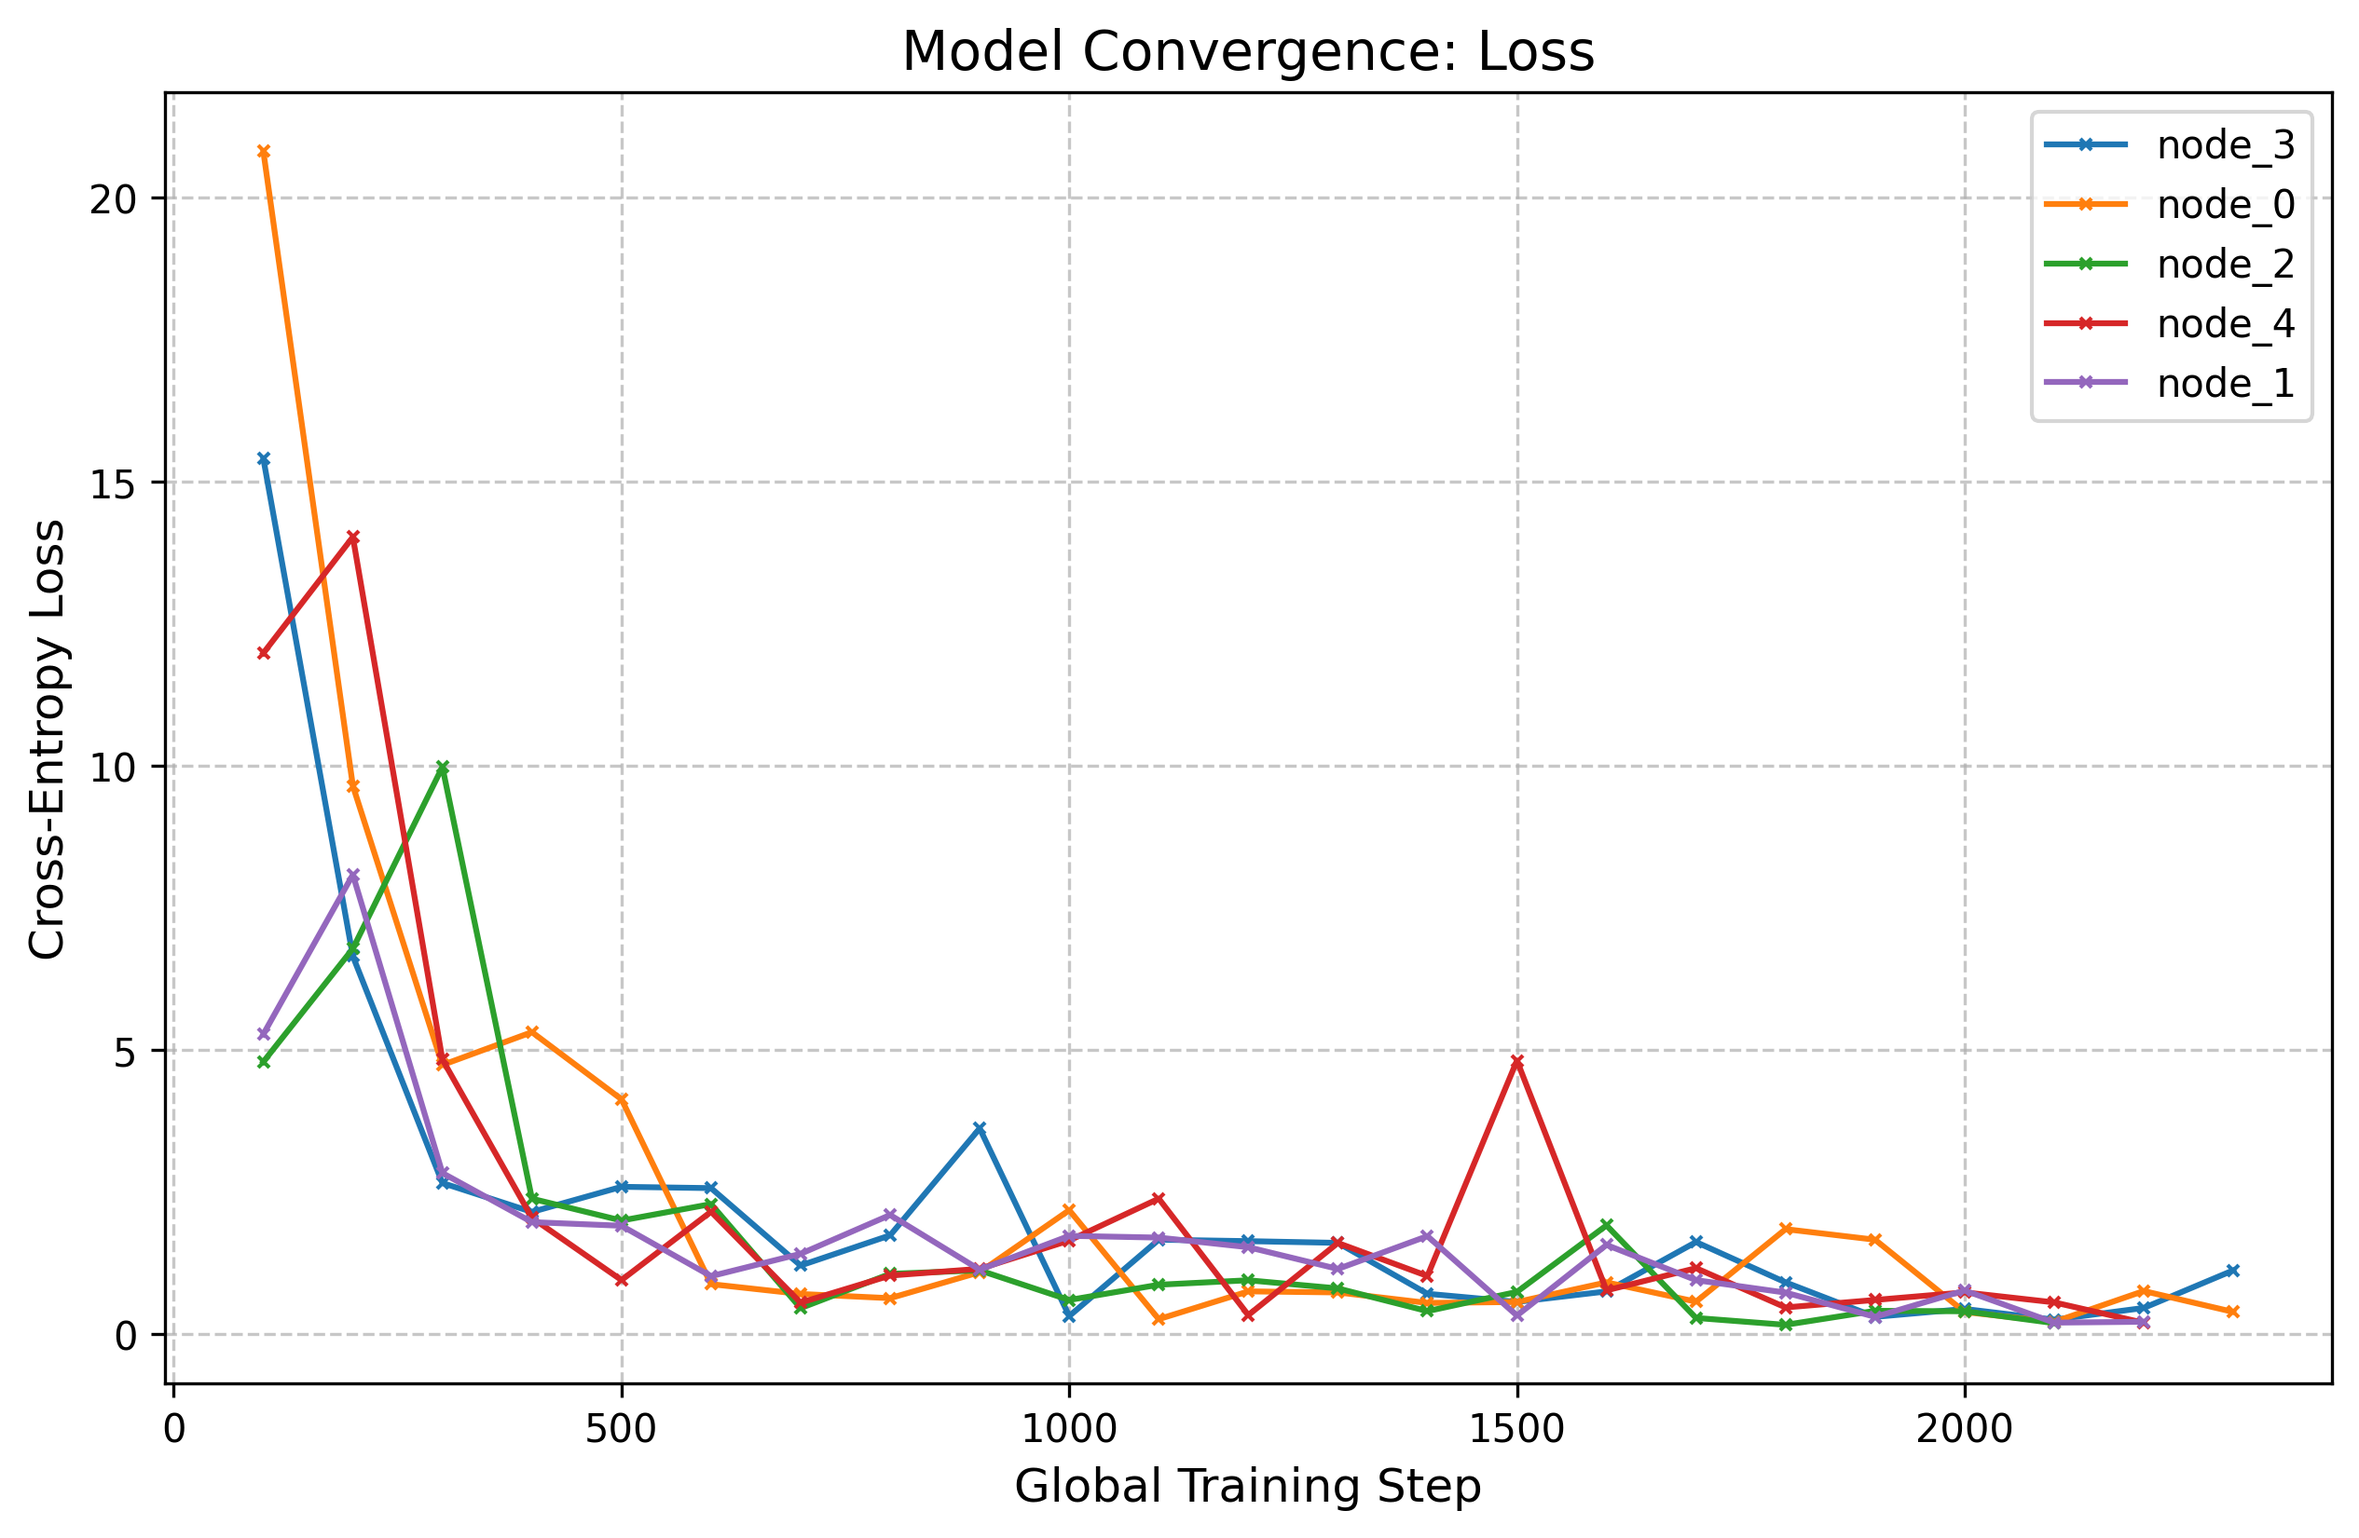
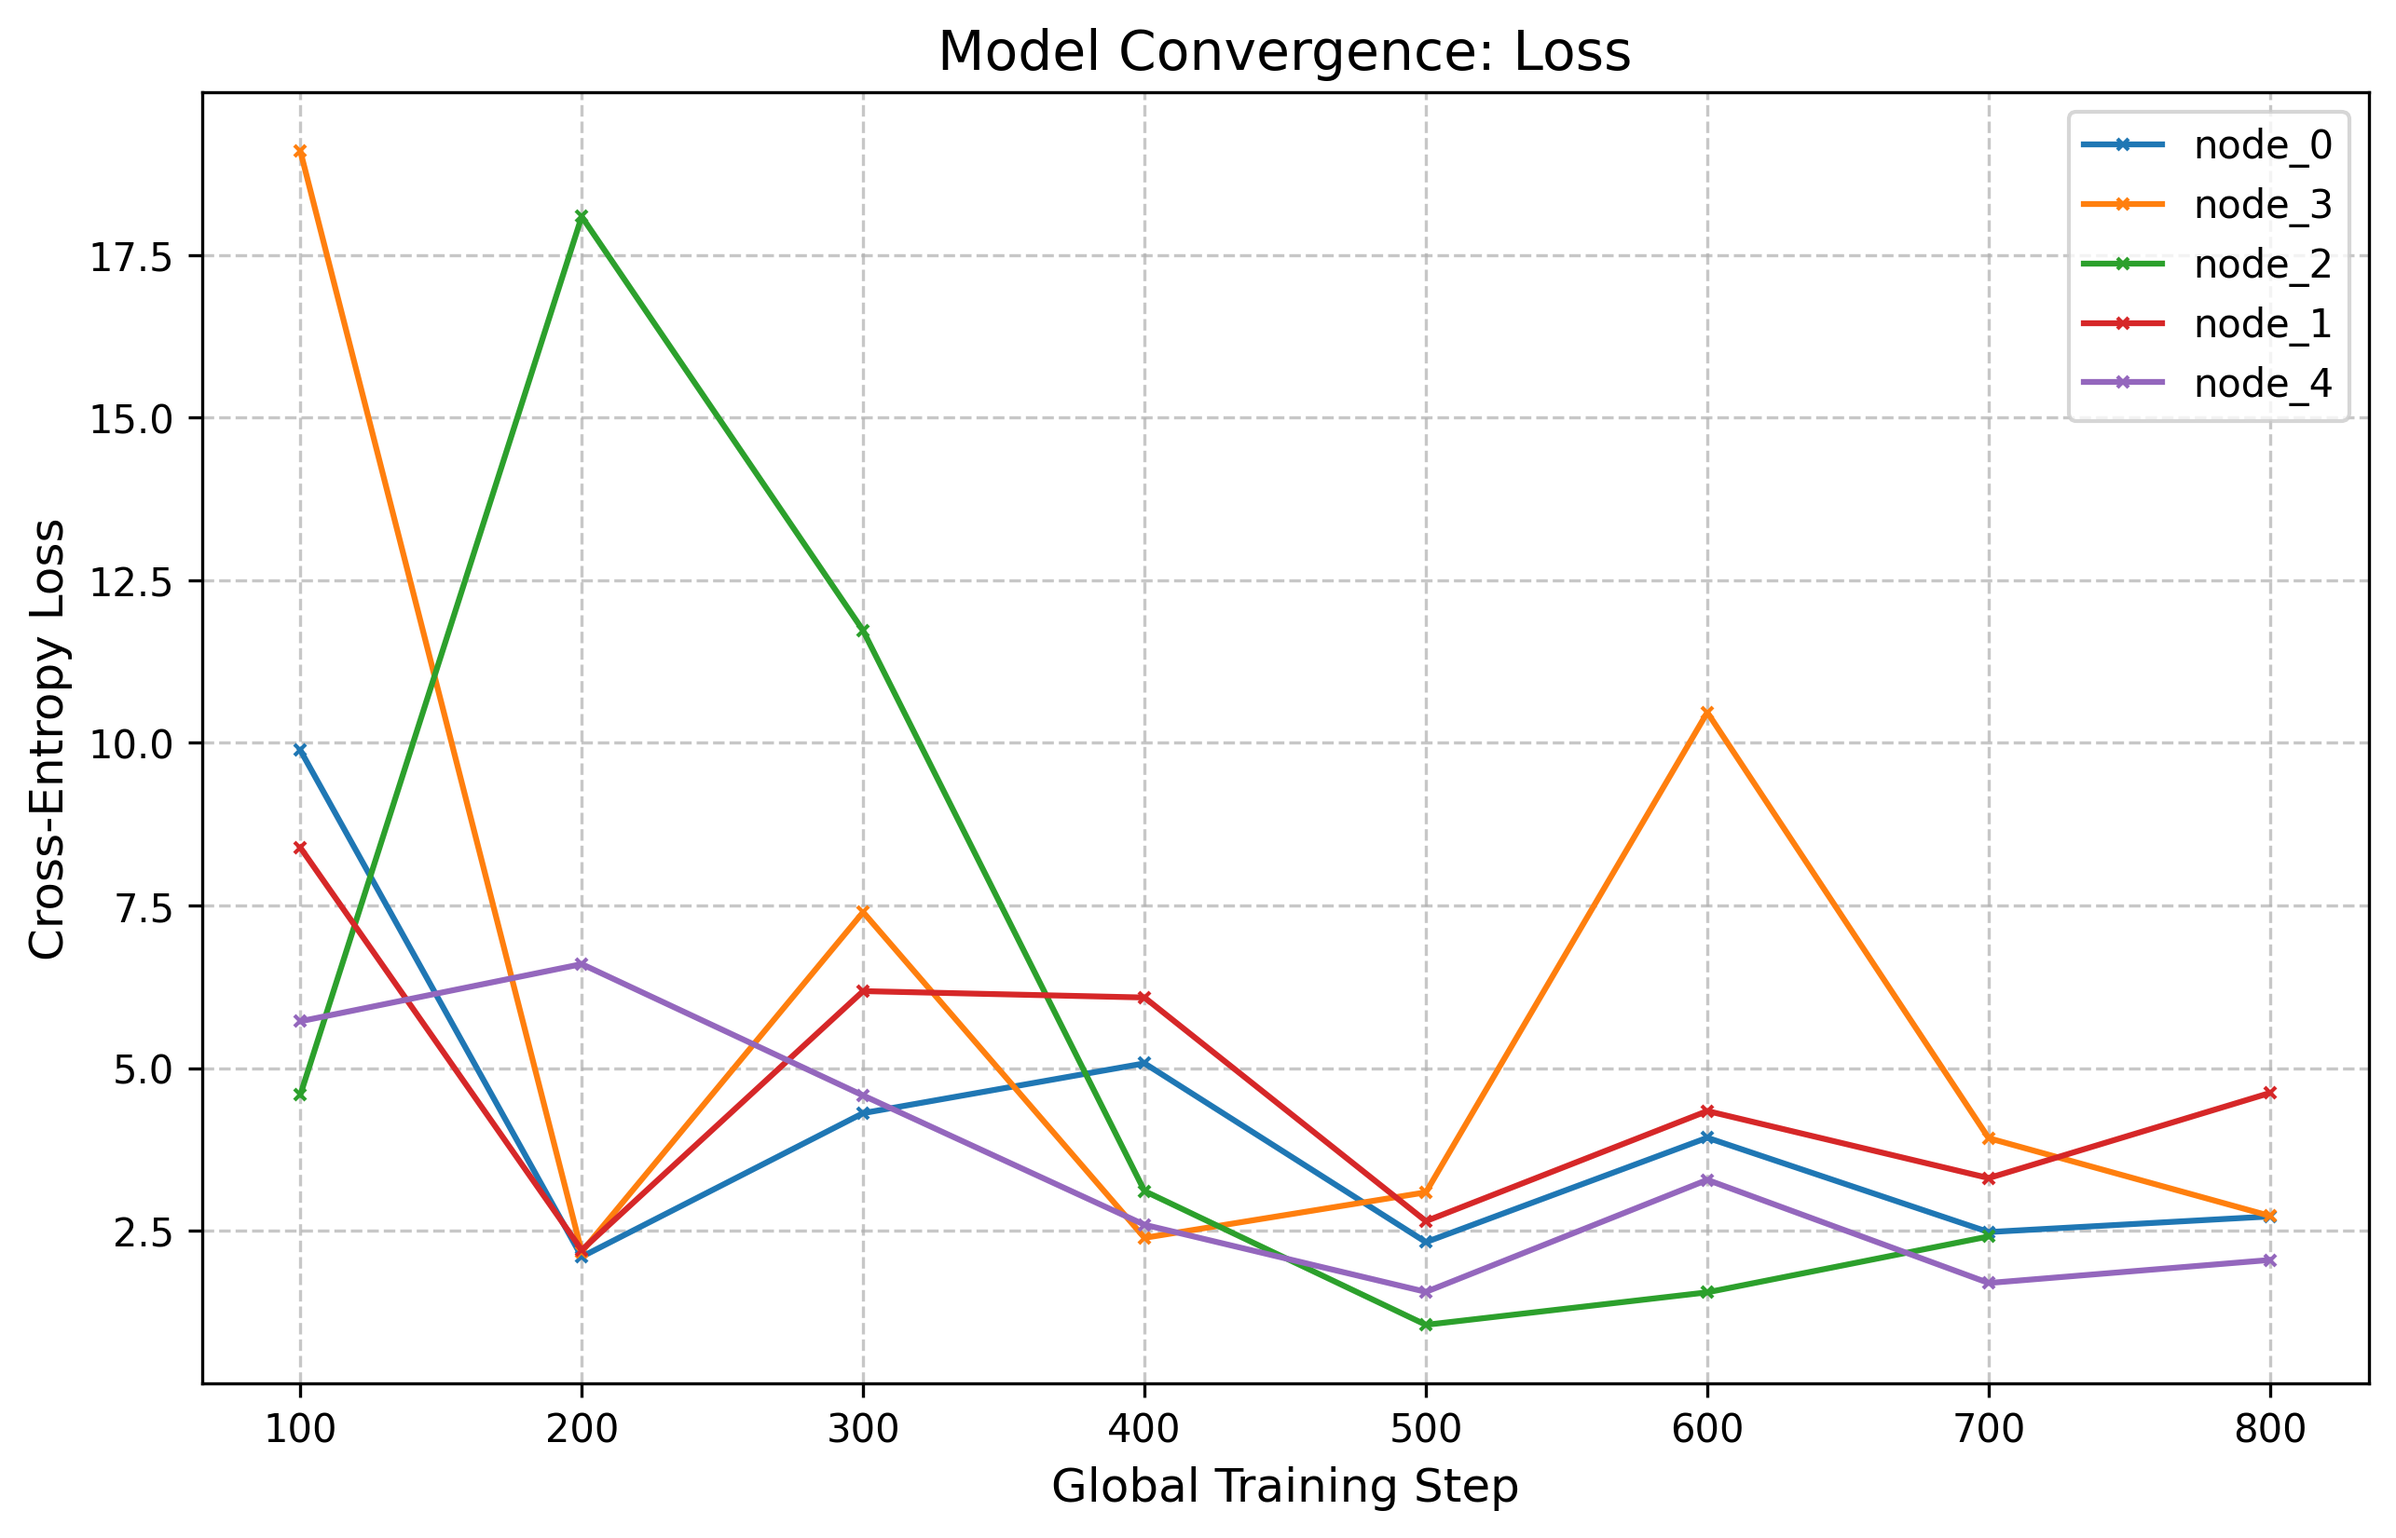
update node.py

diff --git a/src/network/node.py b/src/network/node.py
@@ -153,7 +153,7 @@ class Node:
         next_gossip_interval = self._get_next_gossip_interval(gossip_interval)
 
         try:
-            print(f"[{self.node_id}] Start trainig...)
+            print(f"[{self.node_id}] Start trainig...")
             while True:
                 with self.model_lock:
                     loss = self.model.train_step(num_batches=1)
